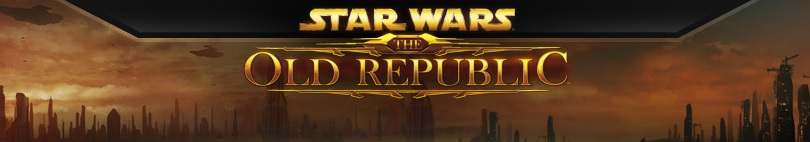
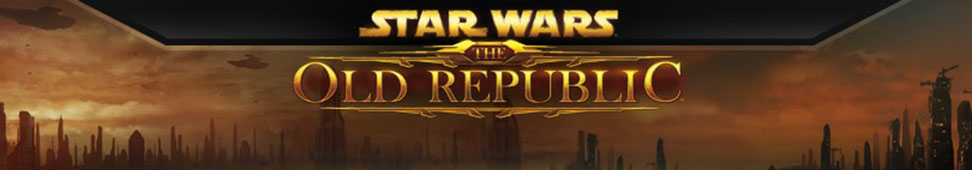
additions made for responsiveness

diff --git a/css/main.css b/css/main.css
@@ -1,17 +1,9 @@
 body{
 	font: 100% 1.5 "adobe hebrew", arial, sans-serif;
-	width: 850px;
+	max-width: 980px;
 	margin: 0 auto;
-	background-image: url("../images/background.jpg");
-}
-
-ul li{
-	display: inline;
-	background-color: #888;
-	border: 3px solid #333;
-	border-radius: 10px;
-	padding: 5px;
-	margin-left: 75px;
+	background:url("../images/background5.jpg");
+	background-attachment: fixed;
 }
 
 .content_para{
@@ -21,12 +13,31 @@ ul li{
 	border-radius: 10px;
 	padding: 5px;
 	text-align: justify;
-	width: 100%;
+	max-width: 98.5%;
+}
+
+ul li{
+	background-color: #888;
+	display: inline-block;
+	outline: none;
+	cursor: pointer;
+	text-align: center;
+	text-decoration: none;
+	font: 100% "adobe hebrew", arial, sans-serif;
+	padding: .5em 2em .55em;
+	text-shadow: 0 1px 1px #673653;
+	-webkit-border-radius: .5em; 
+	-moz-border-radius: .5em;
+	border-radius: .5em;
+	-webkit-box-shadow: 0 1px 2px #673653;
+	-moz-box-shadow: 0 1px 2px #673653;
+	box-shadow: 0 1px 2px #673653;
+	border: 3px solid #333;
 }
 
 ol{
 	background-color: #999;
-	width: 23.529411764706%;
+	max-width: 23.529411764706%;
 	border: 3px solid #333;
 	border-radius: 10px;
 	padding: 5px;
@@ -37,9 +48,19 @@ a{
 	color: #863;
 }
 
+.topliner{
+	max-width: 100%;
+	border: 3px solid #333;
+	border-radius: 10px;
+	display: block;
+	margin-left: auto;
+	margin-right:auto;
+}
 .mainimg{
 	float: right;
-	width: 47.058823529412%;
+	max-width: 47.058823529412%;
+	border: 3px solid #333;
+	border-radius: 10px;
 }
 
 .gallery{
@@ -52,7 +73,7 @@ aside{
 	border: 3px solid #333;
 	border-radius: 10px;
 	padding: 5px;
-	width: 33%;
+	max-width: 100%;
 }
 
 .intro_para{
@@ -61,7 +82,7 @@ aside{
 	border-radius: 10px;
 	padding: 5px;
 	text-align: justify;
-	width: 850px;
+	max-width: 100%;
 }
 
 .button {
@@ -70,7 +91,7 @@ aside{
 	cursor: pointer;
 	text-align: center;
 	text-decoration: none;
-	font: 14px/100% "adobe hebrew", arial, sans-serif;
+	font: 100% "adobe hebrew", arial, sans-serif;
 	padding: .5em 2em .55em;
 	text-shadow: 0 1px 1px #673653;
 	-webkit-border-radius: .5em; 
@@ -80,10 +101,12 @@ aside{
 	-moz-box-shadow: 0 1px 2px #673653;
 	box-shadow: 0 1px 2px #673653;
 }
+
 .button:hover {
 	text-decoration: none;
 	color: #f03;
 }
+
 .button:active {
 	position: relative;
 	top: 1px;
@@ -96,6 +119,7 @@ aside{
 	border-radius: 10px;
 	padding: 5px;
 	text-align: center;
+	max-width: 98.5%;
 }
 
 .signup{
@@ -104,6 +128,7 @@ aside{
 	border-radius: 10px;
 	padding: 5px;
 	text-align: center;
+	max-width: 98.5%;
 }
 
 .imgs{
@@ -111,7 +136,7 @@ aside{
 	border: 3px solid #333;
 	border-radius: 10px;
 	padding: 5px;
-	width: 100%;
+	max-width: 100%;
 }
 
 p{
@@ -126,7 +151,7 @@ h1{
 	border: 3px solid #333;
 	border-radius: 10px;
 	padding: 5px;
-	width: 100%;
+	max-width: 100%;
 }
 
 h2{
@@ -136,14 +161,14 @@ h2{
 	border: 3px solid #333;
 	border-radius: 10px;
 	padding: 5px;
-	width: 100%;
+	max-width: 100%;
 }
 
 h3{
 	text-align: center;
 	padding: 10px;
 	background-color: #888;
-	width: 25.882352941176%;
+	max-width: 25.882352941176%;
 	text-decoration: underline;
 	border: 3px solid #333;
 	border-radius: 10px;
@@ -164,4 +189,18 @@ a:hover{
 
 a:active{
 	color: #c0f;
+}
+
+/* Media Queries ------------------------ */
+
+@media screen and (max-width: 960px){
+	 
+}
+
+@media screen and (max-width: 700px){
+
+}
+
+@media screen and (max-width: 480px){
+
 }

diff --git a/Index.html b/Index.html
@@ -9,13 +9,13 @@
 
 				<h2><em>Star Wars The Old Republic- with the Expansion The Hutt Cartel
 				</em></h2>
-	<img src="images/topliner.jpg" alt="SWlogo" title="StarWars Logo">
+	<img class= topliner src="images/topliner.jpg" alt="SWlogo" title="StarWars Logo">
 				<nav>	
 					<ul>
 						<li class= button>Stats</li>
 						<li class= button>Gallery</li>
 						<li class= button>See Plans</li>
-						<li><a href="https://account.swtor.com/play-free?utm_campaign=sor_pbm-search-b-usa&amp;utm_source=search.yahoo.com&amp;utm_medium=cpc&amp;sourceid=sor_pbm-search-b-usa&amp;utm_medium=paid-search"> Sign Up</a></li>
+						<li class- button><a href="https://account.swtor.com/play-free?utm_campaign=sor_pbm-search-b-usa&amp;utm_source=search.yahoo.com&amp;utm_medium=cpc&amp;sourceid=sor_pbm-search-b-usa&amp;utm_medium=paid-search"> Sign Up</a></li>
 					</ul>
 				</nav>			
 	<div>		
